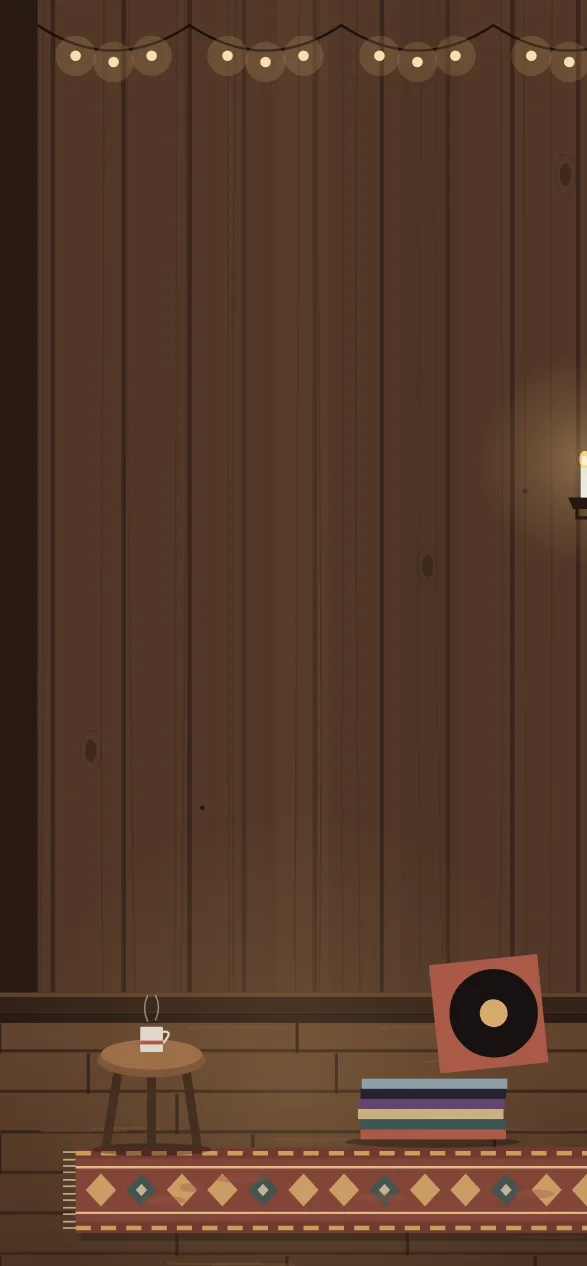
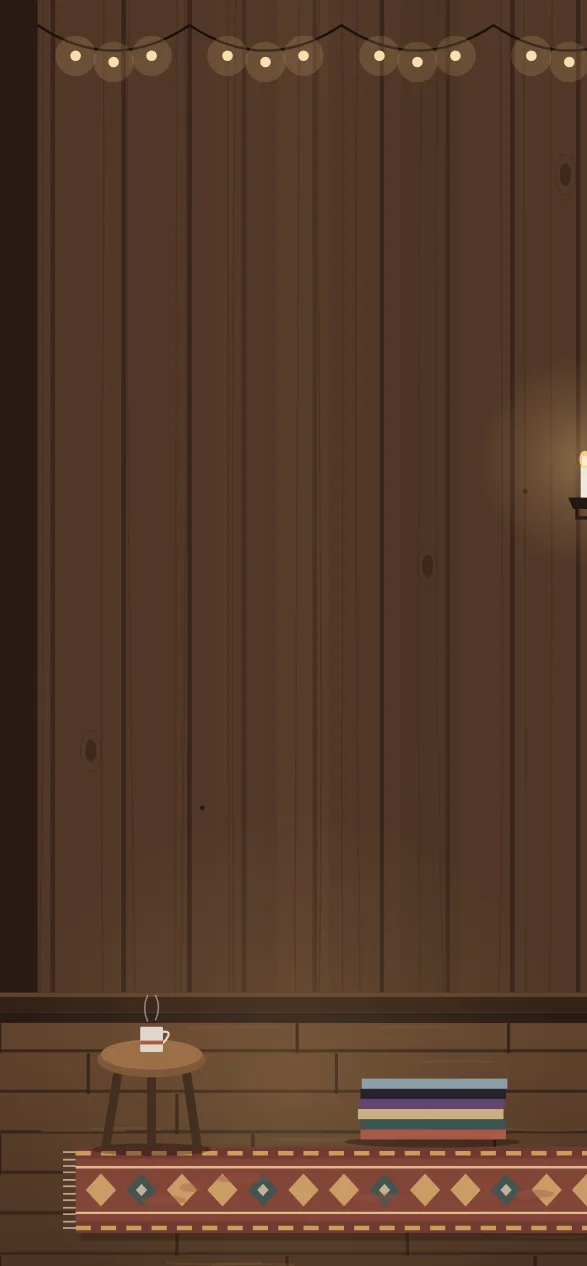
Remove the record sleeve leaning on the cabin's floor record stack
Claude-Session: https://claude.ai/code/session_01EHtmNVvLo6L45VFzzqfGpi

Changed region(s): [[0.7359, 0.7393, 0.9506, 0.8626]]

diff --git a/assets/js/nature.js b/assets/js/nature.js
@@ -1912,8 +1912,7 @@ function vinylStack(x, y, s) {
   let o = `<ellipse cx="${n1(x)}" cy="${n1(y + .2)}" rx="${n1(s * 1.2)}" ry=".45" fill="#000" opacity=".3"/>`;
   const cols = ['#b8604a', '#3f5d59', '#d4b884', '#6b4a7a', '#2a2733', '#8fa8b0'];
   for (let k = 0; k < 6; k++) o += `<rect x="${n1(x - s + R(-.15, .15))}" y="${n1(y - (k + 1) * s * .14)}" width="${n1(s * 2)}" height="${n1(s * .14)}" fill="${cols[k % cols.length]}"/>`;
-  const ry = y - s * .9, rw = s * 1.5;
-  o += `<rect x="${n1(x + s * .1)}" y="${n1(ry - rw)}" width="${n1(rw)}" height="${n1(rw)}" fill="${pick(cols)}" transform="rotate(-6 ${n1(x + s * .1)} ${n1(ry)})"/><circle cx="${n1(x + s * .1 + rw * .55)}" cy="${n1(ry - rw * .5)}" r="${n1(rw * .4)}" fill="#1a1512" transform="rotate(-6 ${n1(x + s * .1)} ${n1(ry)})"/><circle cx="${n1(x + s * .1 + rw * .55)}" cy="${n1(ry - rw * .5)}" r="${n1(rw * .13)}" fill="#e2b36f" transform="rotate(-6 ${n1(x + s * .1)} ${n1(ry)})"/>`;
+  pick(cols); // 立てかけたジャケットはやめた（本人の希望）。乱数の順番を変えないように、選ぶ処理だけ残す
   return o;
 }
 // クッションの上で丸くなって眠る猫
